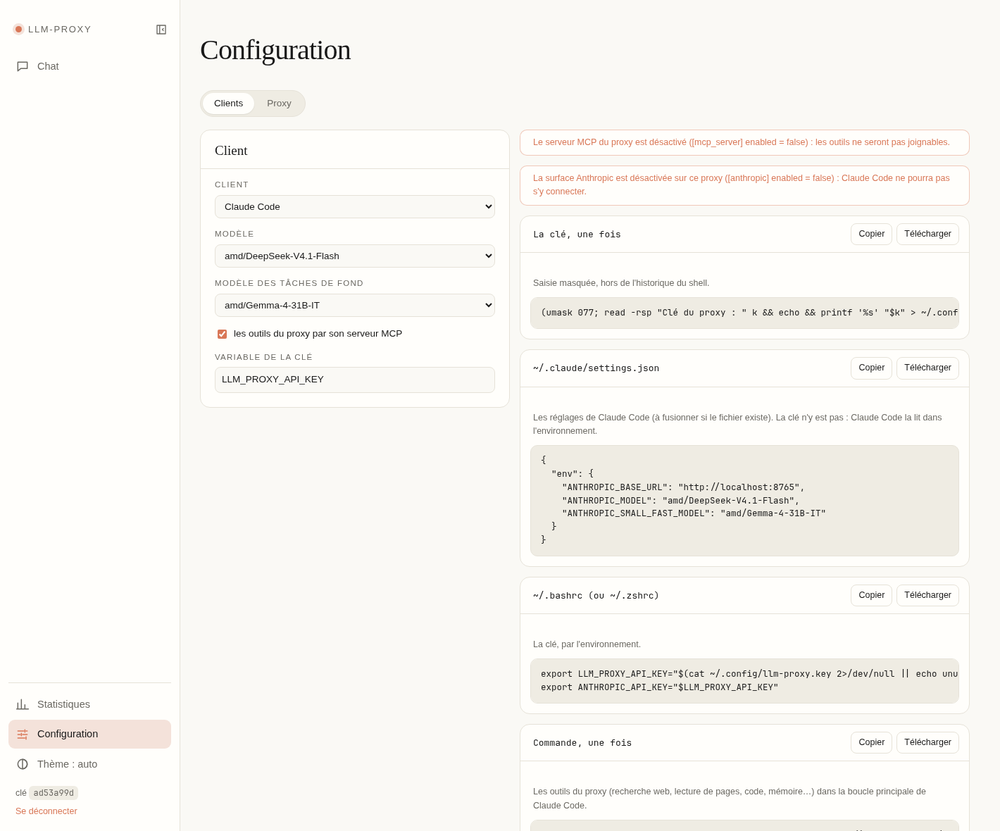
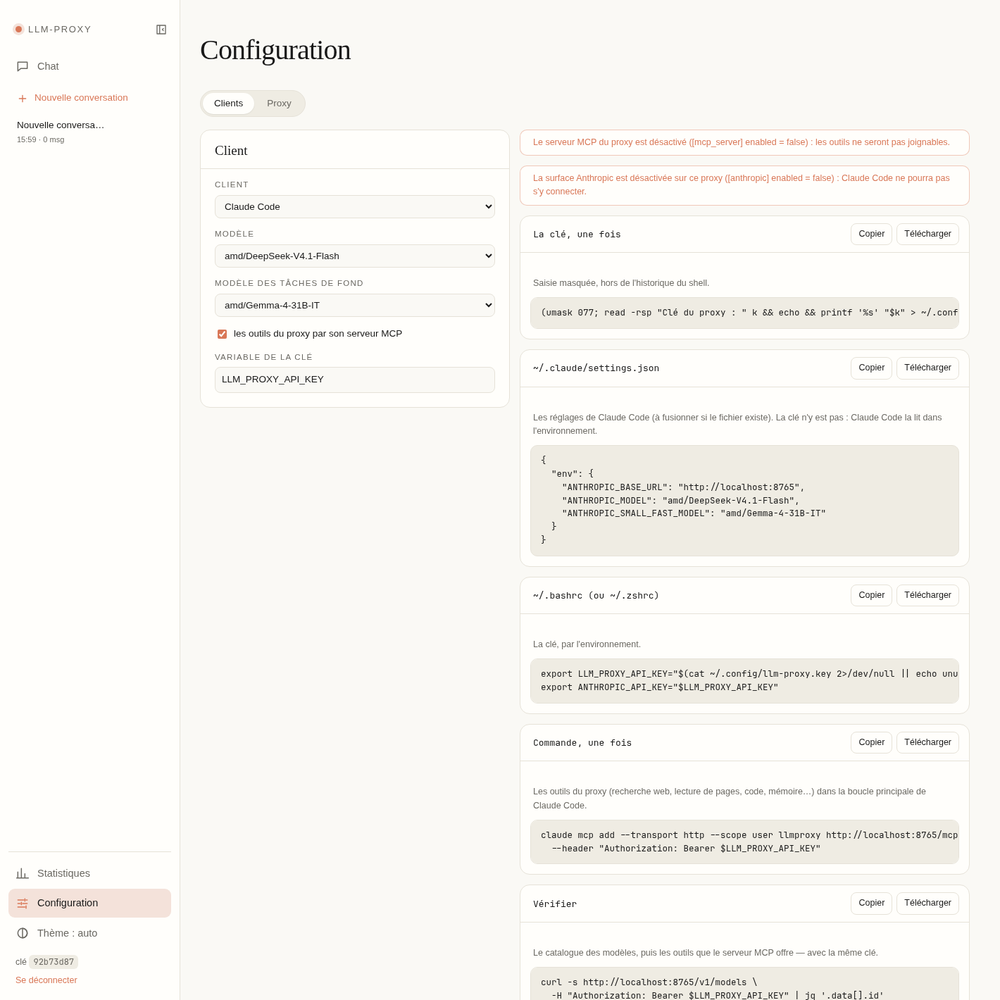
Agentique, TP bonus proxy : captures de l'interface (connexion, statistiques sur quatre fournisseurs, chat, Configuration → Proxy : backends, .env, accès, partage équitable), section tableau de bord réorganisée

diff --git a/tp/agentic/proxy.md b/tp/agentic/proxy.md
@@ -324,28 +324,6 @@ Pour chaque requête d'OpenCode, le proxy :
 Votre clé de proxy ne part jamais chez AMD, et la clé AMD ne part jamais chez OpenCode.
 :::
 
-## Le tableau de bord
-
-Ouvrez [http://localhost:8000/ui](http://localhost:8000/ui) dans votre navigateur. La page demande une clé : donnez celle du proxy. Après quelques requêtes, la vue **Statistiques** ressemble à ceci :
-
-![Le tableau de bord de llm-proxy, vue Statistiques : 35 requêtes, 54 111 tokens (54 041 en entrée, 70 en sortie), 5 modèles actifs (amd : 19 requêtes, nvidia : 16 requêtes), 0 erreur ; le graphique du trafic empilé par modèle et le tableau par modèle : amd/Gemma-4-31B-IT, 9 requêtes et 23 827 tokens, soit 2 647 en moyenne par requête ; nvidia/nvidia/nemotron-3.5-lightning-30b-a3b, 14 requêtes et 18 127 tokens ; amd/DeepSeek-V4.1-Flash, 8 requêtes et 256 tokens, soit 32 en moyenne](./res/proxy_tableau_de_bord.png)
-
-::: details Comment cette capture a-t-elle été faite ?
-Pour ne pas consommer de quota, elle a été prise avec deux **backends simulés**, qui imitent les catalogues de NVIDIA et d'AMD et répondent toujours « OK ». Le proxy, la configuration, les requêtes d'OpenCode et de curl, et les compteurs sont réels. Les chiffres de votre tableau de bord seront donc différents, mais pas les ordres de grandeur.
-:::
-
-Je vous laisse observer le tableau **Par modèle**, puis répondre :
-
-1. Les requêtes faites avec curl coûtent quelques dizaines de tokens. Combien coûte, en moyenne, une requête d'OpenCode, pour la même question « Réponds uniquement par le mot OK. » ?
-2. D'où vient la différence ?
-3. Avec 20 requêtes par minute chez AMD, combien de tours de boucle un agent peut-il faire par minute ? Est-ce que ça suffit pour la tâche du [TP sur l'utilisation](./utilisation.md) ?
-
-::: details Voir les réponses
-1. Autour de **2 600 tokens** d'entrée par requête dans notre capture (`Moy./req`), contre une trentaine pour curl.
-2. OpenCode envoie, **à chaque requête**, son prompt système et la description de tous ses outils (lire, écrire, exécuter…), avant même votre question. Vous l'avez vu dans [le TP sur le principe](./principe.md) : le contexte d'un agent n'est jamais vide.
-3. 20 tours de boucle par minute au maximum, une lecture de fichier ou un lancement de tests par tour. Pour une tâche qui demande 30 à 50 tours, comptez plusieurs minutes, et des erreurs `429` si l'agent va plus vite que la limite. Le proxy relaie ces erreurs ; c'est l'agent qui attend et réessaie.
-:::
-
 ## Ajouter OpenCode Go et OpenRouter
 
 NVIDIA et AMD ne sont pas les seuls fournisseurs intéressants. Deux autres méritent leur place derrière votre proxy, et ils montrent tout l'intérêt de la méthode : **une table de plus dans `config.toml`, une variable de plus dans `.env`**, et vos agents n'ont rien à changer.
@@ -453,6 +431,73 @@ Il n'y a pas de réponse unique, mais quelques repères :
 Et c'est tout l'intérêt du proxy : changer d'avis ne coûte qu'un changement de nom de modèle.
 :::
 
+## Le tableau de bord
+
+llm-proxy a sa propre interface web. Ouvrez [http://localhost:8000/ui](http://localhost:8000/ui) dans votre navigateur.
+
+::: details Comment les captures de cette partie ont-elles été faites ?
+Pour ne pas consommer de quota, elles ont été prises avec des **backends simulés**, qui imitent les catalogues de NVIDIA, d'AMD, d'OpenCode Go et d'OpenRouter et répondent par une phrase écrite à l'avance (ou « OK »). Le proxy, son interface, la configuration, les requêtes d'OpenCode et de curl et les compteurs sont réels. Les chiffres de votre tableau de bord seront donc différents, mais pas les ordres de grandeur.
+:::
+
+### Se connecter
+
+La page demande une clé : donnez celle du proxy (la valeur de `PROXY_API_KEY`).
+
+![La page de connexion de llm-proxy : un champ « Clé du proxy » et un bouton « Entrer », avec l'explication que la clé reste dans un cookie de ce navigateur, illisible par la page, et que l'on ne verra que ses propres statistiques et conversations](./res/proxy_ui_connexion.png)
+
+La clé n'est jamais mise dans l'adresse de la page : elle est vérifiée une fois, puis le navigateur garde une session qui n'en contient qu'un condensé. Et chaque clé ne voit que **ses** statistiques : c'est ce qui permet de donner une clé à chacun sans montrer la consommation des autres.
+
+### Les statistiques
+
+Après quelques requêtes avec OpenCode et curl, la vue **Statistiques** ressemble à ceci :
+
+![Le tableau de bord de llm-proxy, vue Statistiques : 34 requêtes, 50 134 tokens (50 066 en entrée, 68 en sortie), 8 modèles actifs répartis entre amd (12 requêtes), go (12), nvidia (2) et openrouter (8), 0 erreur ; le graphique du trafic empilé par modèle, la répartition des tokens, et le tableau par modèle : amd/DeepSeek-V4.1-Flash, 6 requêtes faites avec curl, 39 tokens en moyenne ; amd/Gemma-4-31B-IT, 4 requêtes d'OpenCode, 2 974 tokens en moyenne ; go/glm-5.3-flash, go/kimi-k3, nvidia/nvidia/nemotron-3.5-lightning-30b-a3b et les modèles openrouter/…:free](./res/proxy_tableau_de_bord.png)
+
+Je vous laisse observer le tableau **Par modèle**, puis répondre :
+
+1. Les requêtes faites avec curl coûtent quelques dizaines de tokens. Combien coûte, en moyenne, une requête d'OpenCode, pour la même question « Réponds uniquement par le mot OK. » ?
+2. D'où vient la différence ?
+3. Avec 20 requêtes par minute chez AMD, combien de tours de boucle un agent peut-il faire par minute ? Est-ce que ça suffit pour la tâche du [TP sur l'utilisation](./utilisation.md) ? Et avec les 50 requêtes **par jour** d'OpenRouter ?
+
+::: details Voir les réponses
+1. Autour de **3 000 tokens** d'entrée par requête dans notre capture (`Moy./req` de `amd/Gemma-4-31B-IT`, que seul OpenCode a utilisé), contre une quarantaine pour curl (`amd/DeepSeek-V4.1-Flash`).
+2. OpenCode envoie, **à chaque requête**, son prompt système et la description de tous ses outils (lire, écrire, exécuter…), avant même votre question. Vous l'avez vu dans [le TP sur le principe](./principe.md) : le contexte d'un agent n'est jamais vide.
+3. 20 tours de boucle par minute au maximum, une lecture de fichier ou un lancement de tests par tour. Pour une tâche qui demande 30 à 50 tours, comptez plusieurs minutes, et des erreurs `429` si l'agent va plus vite que la limite. Le proxy relaie ces erreurs ; c'est l'agent qui attend et réessaie. Avec 50 requêtes par jour, une seule tâche de ce genre épuise la journée.
+:::
+
+### Le chat
+
+Le tableau de bord a aussi un **chat**, pour discuter avec n'importe quel modèle du proxy sans installer d'agent. Il est désactivé par défaut, parce qu'il dépense des tokens au nom de la clé connectée. Pour l'ouvrir, ajoutez dans `data/config.toml` :
+
+```toml
+[ui]
+chat = true
+```
+
+puis `docker compose restart albert-proxy`. Choisissez un modèle en haut, et posez votre question :
+
+![Le chat de llm-proxy : en haut, le modèle Gemma-4-31B-IT choisi dans la liste ; la question « Bonjour ! Qui es-tu, et par où est passée ma question ? » ; la réponse, sous laquelle s'affichent le modèle amd/Gemma-4-31B-IT, 44 tokens en entrée et 2 en sortie, la durée (0,3 s) et les boutons Copier, Écouter et Régénérer ; à gauche, la conversation dans la liste des conversations](./res/proxy_ui_chat.png)
+
+Sous chaque réponse, le chat affiche le modèle, les tokens consommés et la durée : de quoi comparer les fournisseurs sur une même question. Les conversations sont gardées par le proxy, dans `data/` (sauf en mode **Incognito**).
+
+::: warning Ce que voit l'administrateur
+Dans votre proxy, c'est vous l'administrateur : les conversations du chat sont dans une base SQLite de `data/`, sur votre disque. Sur le proxy de la classe, c'est le serveur de votre enseignant. Même règle que pour les agents : rien de personnel ni de secret dans une conversation.
+:::
+
+### La configuration
+
+L'onglet **Configuration → Proxy** présente toute la configuration en vigueur, section par section. Par exemple, les quatre fournisseurs que vous avez déclarés :
+
+![Configuration, onglet Proxy, section Backends : quatre backends, chacun avec son nom (le préfixe) et son adresse : nvidia sur https://integrate.api.nvidia.com, amd sur https://api.tokenlab.amd.com, go sur https://opencode.ai/inference/go/openai, openrouter sur https://openrouter.ai/api ; pour chacun, les cases « clé d'API » et « partage équitable » sont cochées ; un bouton « Ajouter un backend »](./res/proxy_ui_backends.png)
+
+Et la section **.env** liste les variables que votre configuration attend, sans jamais afficher leur valeur :
+
+![Configuration, onglet Proxy, section .env : « Les secrets que le TOML référence par ${VAR} : à côté du docker-compose.yml, jamais dans le dépôt » ; la liste PROXY_API_KEY, NVIDIA_API_KEY, AMD_API_KEY, OPENCODE_GO_API_KEY et OPENROUTER_API_KEY, toutes sans valeur](./res/proxy_ui_env.png)
+
+::: tip Que se passe-t-il derrière ?
+Cette page **n'écrit rien** sur le proxy : elle part de la configuration en vigueur, vous laisse la modifier, la vérifier (bouton **Vérifier**, qui détecte une faute de frappe dans un nom de réglage), puis **télécharger** le nouveau `config.toml`. C'est à vous de remplacer `data/config.toml` et de redémarrer. Un choix de sécurité : une page web capable de réécrire la configuration d'un serveur serait une belle cible.
+:::
+
 ## Pour aller plus loin
 
 ### Partager le proxy avec un binôme
@@ -466,6 +511,10 @@ api_keys = ["${PROXY_API_KEY}", "${BINOME_API_KEY}"]
 
 Chaque clé a ses propres statistiques dans le tableau de bord, et retirer la clé de votre binôme ne change rien pour vous.
 
+Dans le tableau de bord, la section **Accès** de **Configuration → Proxy** fait la même chose : **Ajouter une clé** donne une ligne de plus (le nom de la variable, la valeur restant dans le `.env`), puis **Télécharger config.toml**.
+
+![Configuration, onglet Proxy, section Accès : « Une clé par personne : chacune a ses statistiques, sa mémoire, ses conversations », une ligne PROXY_API_KEY dont la valeur reste dans le .env, et un bouton « Ajouter une clé » ; au-dessus, le rappel que rien n'est écrit sur le proxy : il faut télécharger le fichier, remplacer data/config.toml sur l'hôte, puis redémarrer](./res/proxy_ui_acces.png)
+
 Mais vous partagez alors **vos** limites : 20 requêtes par minute chez AMD pour deux agents. Pour qu'un agent qui boucle ne prenne pas tout, le proxy propose un **partage équitable** : une part de tokens par heure et par clé, au-delà de laquelle les requêtes attendent leur tour (rien n'est refusé). C'est ce que fait le proxy de la classe :
 
 ```toml
@@ -473,6 +522,8 @@ Mais vous partagez alors **vos** limites : 20 requêtes par minute chez AMD pour
 # Tokens (entrée + sortie) par heure glissante et par clé. 0 = aucune limite.
 tokens_per_hour = 200000
 ```
+
+![Configuration, onglet Proxy, section Partage équitable : « Une part de tokens par client sur une heure glissante : au-delà, ses requêtes attendent, rien n'est refusé », la part par défaut réglée à 200000 tokens par heure, et les routes exemptées (/embeddings, /rerank, /audio/transcriptions, /ocr)](./res/proxy_ui_partage.png)
 
 Voir [la documentation du partage équitable](https://github.com/c4software/llm-proxy/blob/master/docs/tableau-de-bord.md#partage-équitable).
 
@@ -506,6 +557,7 @@ Dans ce TP bonus, vous avez changé de côté :
 - les clés des fournisseurs restent dans un `.env` ignoré par Git, la configuration ne contient que des `${VAR}`, et une variable n'entre dans un conteneur que si le service la demande ;
 - un proxy sans `api_keys` est ouvert à tous : c'est la première ligne à écrire ;
 - vos agents ne connaissent qu'une adresse et une clé, et changer de fournisseur ne les concerne plus ;
+- le tableau de bord donne les statistiques de chaque clé, un chat pour essayer les modèles, et la configuration complète (sans jamais l'écrire lui-même) ;
 - le tableau de bord montre ce que coûte vraiment un agent : des milliers de tokens par tour, avant même votre question.
 
 C'est, en plus grand (comptes, une clé par étudiant, partage équitable), ce que fait le proxy de la classe. Vous savez maintenant ce que voit son administrateur, et ce qu'il ne voit pas : relisez [ce que le proxy ne protège pas](./limites.md#vos-donnees-partent-chez-un-tiers) avec ce nouvel œil.
